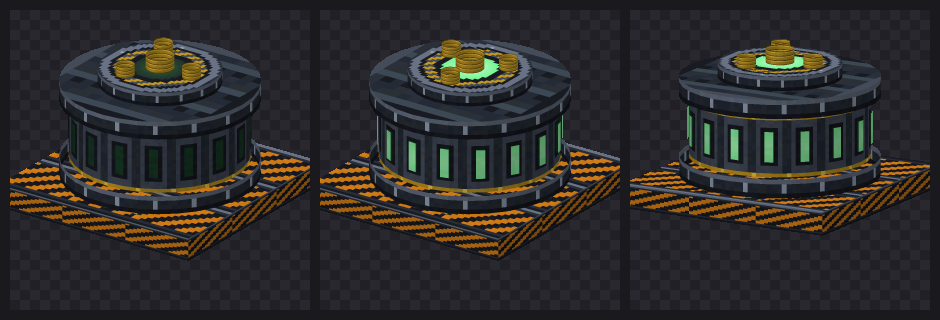
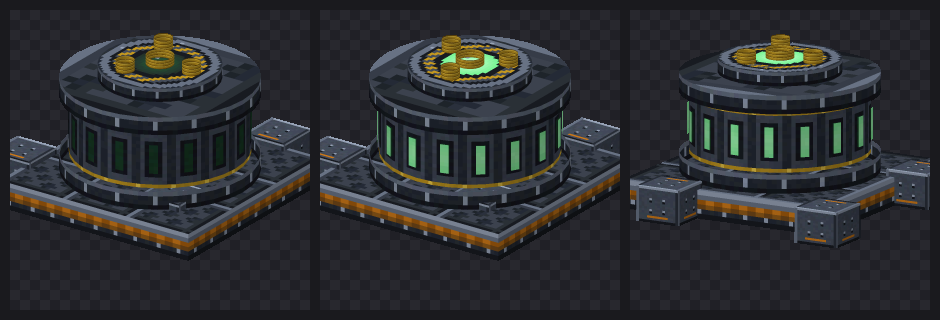
Rebuild the centrifuge's platform
The base was a flat slab tiled edge to edge with hazard stripes, which at
three blocks across read as noise rather than as a machine footing.

It is now a machined platform: a tread-plate deck over a dark steel skirt
carrying a single amber warning band and rivets, with bolted anchor blocks
at the four corners giving the base an actual silhouette. The tread pattern
is deliberately low contrast for the same reason the stripes were dropped.

The skirt is six block-pixels tall, so its faces sample rows 5..11 of the
texture rather than squashing all sixteen into six. Adds boxSides and
boxTop helpers so the deck and skirt can take different textures, since
the platform is drawn per block to keep texel density right.

Verified assets resolve, buffer discipline holds, and the machine still
forms, powers, refines and breaks as one on a dedicated server.

Claude-Session: https://claude.ai/code/session_01Ce4aKAQaA5yAKNMrb4K7Ch

Changed region(s): [[0.0, 0.0938, 1.0, 0.8125], [0.7096, 0.0938, 0.9564, 0.4062]]

diff --git a/uranium-mod/src/main/java/net/pero/uraniummod/client/render/CentrifugeBlockEntityRenderer.java b/uranium-mod/src/main/java/net/pero/uraniummod/client/render/CentrifugeBlockEntityRenderer.java
@@ -42,6 +42,8 @@ public class CentrifugeBlockEntityRenderer implements BlockEntityRenderer<Centri
 			Identifier.of(UraniumMod.MOD_ID, "textures/block/centrifuge_deck.png");
 	private static final Identifier BASE =
 			Identifier.of(UraniumMod.MOD_ID, "textures/block/centrifuge_base.png");
+	private static final Identifier FOOT =
+			Identifier.of(UraniumMod.MOD_ID, "textures/block/centrifuge_foot.png");
 
 	private static final float PX = 1.0f / 16.0f;
 	private static final int SIDES = 32;
@@ -58,9 +60,13 @@ public class CentrifugeBlockEntityRenderer implements BlockEntityRenderer<Centri
 	private static final float FOOT_MIN = -16.0f, FOOT_MAX = 32.0f;
 	private static final float COLLAR_R = 21.0f, BODY_R = 19.0f, GLOW_R = 19.4f;
 	private static final float HOUSING_R = 13.0f, SHAFT_R = 3.0f;
-	private static final float Y_PLINTH = 5.0f;
-	private static final float Y_BODY0 = 9.0f, Y_BODY1 = 22.0f;
-	private static final float Y_UPPER = 26.0f, Y_HOUSING = 29.0f, Y_SHAFT = 32.0f;
+	private static final float Y_PLINTH = 6.0f;      // top of the platform deck
+	private static final float Y_FOOT = 7.5f;        // corner anchor blocks
+	private static final float Y_BODY0 = 10.0f, Y_BODY1 = 23.0f;
+	private static final float Y_UPPER = 27.0f, Y_HOUSING = 30.0f, Y_SHAFT = 32.0f;
+
+	/** The skirt texture's design lives in rows 5..11; see tools/gen_textures.py. */
+	private static final float SKIRT_V0 = 5.0f / 16.0f, SKIRT_V1 = 11.0f / 16.0f;
 
 	public CentrifugeBlockEntityRenderer(BlockEntityRendererFactory.Context ctx) {
 	}
@@ -82,17 +88,45 @@ public class CentrifugeBlockEntityRenderer implements BlockEntityRenderer<Centri
 		// ends it. Holding several buffers at once and interleaving writes throws
 		// "Not building!" on the first write to a buffer that was already flushed.
 
-		{   // Plinth over the full 3x3 footprint, drawn as one box per block rather
-			// than a single 48px-wide one: stretching a 16px texture across the
-			// whole span is exactly the smearing that spoiled the old drum.
-			VertexConsumer base = vertexConsumers.getBuffer(
+		{   // Platform. Drawn as one box per block rather than a single 48px-wide
+			// one: stretching a 16px texture over the whole span is the same
+			// smearing that spoiled the earlier drum. The sides sample the
+			// skirt band, the top gets tread plate.
+			VertexConsumer skirt = vertexConsumers.getBuffer(
 					RenderLayer.getEntityCutoutNoCull(BASE));
 			for (int dx = -1; dx <= 1; dx++) {
 				for (int dz = -1; dz <= 1; dz++) {
 					float x0 = (dx * 16.0f - CX) * PX;
 					float z0 = (dz * 16.0f - CZ) * PX;
-					box(matrices, base, x0, 0.0f, z0,
+					boxSides(matrices, skirt, x0, 0.0f, z0,
 							x0 + 16.0f * PX, Y_PLINTH * PX, z0 + 16.0f * PX,
+							SKIRT_V0, SKIRT_V1, light, overlay);
+				}
+			}
+		}
+
+		{   // tread-plate deck on top of the platform
+			VertexConsumer deck = vertexConsumers.getBuffer(
+					RenderLayer.getEntityCutoutNoCull(DECK));
+			for (int dx = -1; dx <= 1; dx++) {
+				for (int dz = -1; dz <= 1; dz++) {
+					float x0 = (dx * 16.0f - CX) * PX;
+					float z0 = (dz * 16.0f - CZ) * PX;
+					boxTop(matrices, deck, x0, Y_PLINTH * PX, z0,
+							x0 + 16.0f * PX, z0 + 16.0f * PX, light, overlay);
+				}
+			}
+		}
+
+		{   // anchor blocks at the four corners, so the base is not a bare slab
+			VertexConsumer foot = vertexConsumers.getBuffer(
+					RenderLayer.getEntityCutoutNoCull(FOOT));
+			for (int sx = -1; sx <= 1; sx += 2) {
+				for (int sz = -1; sz <= 1; sz += 2) {
+					float cx = sx * 19.0f - CX;
+					float cz = sz * 19.0f - CZ;
+					box(matrices, foot, (cx - 5.0f) * PX, 0.0f, (cz - 5.0f) * PX,
+							(cx + 5.0f) * PX, Y_FOOT * PX, (cz + 5.0f) * PX,
 							light, overlay, 0xFFFFFFFF);
 				}
 			}
@@ -175,7 +209,40 @@ public class CentrifugeBlockEntityRenderer implements BlockEntityRenderer<Centri
 		matrices.pop();
 	}
 
-	/** Axis-aligned box, used for the plinth. */
+	/** The four upright faces of a box, sampling a horizontal band of the texture. */
+	private static void boxSides(MatrixStack matrices, VertexConsumer vc,
+	                             float x0, float y0, float z0, float x1, float y1, float z1,
+	                             float v0, float v1, int light, int overlay) {
+		MatrixStack.Entry e = matrices.peek();
+		float[][] faces = {
+				{x1, y1, z0, x0, y1, z0, x0, y0, z0, x1, y0, z0, 0, 0, -1},
+				{x0, y1, z1, x1, y1, z1, x1, y0, z1, x0, y0, z1, 0, 0, 1},
+				{x1, y1, z1, x1, y1, z0, x1, y0, z0, x1, y0, z1, 1, 0, 0},
+				{x0, y1, z0, x0, y1, z1, x0, y0, z1, x0, y0, z0, -1, 0, 0},
+		};
+		float[][] uv = {{0, v0}, {1, v0}, {1, v1}, {0, v1}};
+		for (float[] f : faces) {
+			for (int i = 0; i < 4; i++) {
+				put(vc, e, f[i * 3], f[i * 3 + 1], f[i * 3 + 2], uv[i][0], uv[i][1],
+						light, overlay, f[12], f[13], f[14], 0xFFFFFFFF);
+			}
+		}
+	}
+
+	/** Just the top face of a box. */
+	private static void boxTop(MatrixStack matrices, VertexConsumer vc,
+	                           float x0, float y, float z0, float x1, float z1,
+	                           int light, int overlay) {
+		MatrixStack.Entry e = matrices.peek();
+		float[][] c = {{x0, y, z0}, {x1, y, z0}, {x1, y, z1}, {x0, y, z1}};
+		float[][] uv = {{0, 0}, {1, 0}, {1, 1}, {0, 1}};
+		for (int i = 0; i < 4; i++) {
+			put(vc, e, c[i][0], c[i][1], c[i][2], uv[i][0], uv[i][1],
+					light, overlay, 0.0f, 1.0f, 0.0f, 0xFFFFFFFF);
+		}
+	}
+
+	/** Axis-aligned box, used for the corner feet. */
 	private static void box(MatrixStack matrices, VertexConsumer vc,
 	                        float x0, float y0, float z0, float x1, float y1, float z1,
 	                        int light, int overlay, int tint) {

diff --git a/uranium-mod/tools/gen_textures.py b/uranium-mod/tools/gen_textures.py
@@ -532,32 +532,64 @@ def make_shaft(path, seed=74):
         px.append(row)
     write_png(path, px)
 
+# The skirt is 6 block-pixels tall, so the renderer samples rows 5..11 of this
+# texture. Those rows carry the whole design; the rest is never seen.
+SKIRT_V0, SKIRT_V1 = 5, 11
+
 def make_base(path, seed=45):
-    """Plinth skirt: amber/black hazard stripes."""
+    """Platform skirt: dark steel with a single amber warning band and rivets,
+    rather than an edge-to-edge hazard pattern, which read as noise at size."""
     r = Rng(seed)
-    px = [[q(sh(AMB_M if ((x + y) // 3) % 2 == 0 else STEEL_O,
-                int((r.f() - 0.5) * 12))) for x in range(N)] for y in range(N)]
+    px = [[q(sh(STEEL_D, int((r.f() - 0.5) * 8))) for _ in range(N)] for _ in range(N)]
+    for x in range(N):
+        px[SKIRT_V0][x] = STEEL_H                       # lit top lip
+        px[SKIRT_V0 + 1][x] = STEEL_L
+        px[SKIRT_V1 - 1][x] = STEEL_O                   # shadow under the lip
+    for x in range(N):                                  # amber warning band
+        band = AMB_M if (x // 2) % 2 == 0 else mix(AMB_M, AMB_D, 0.55)
+        px[SKIRT_V0 + 2][x] = q(band)
+        px[SKIRT_V0 + 3][x] = q(mix(band, STEEL_O, 0.35))
+    for x in (2, 8, 13):                                # rivets on the lower rail
+        px[SKIRT_V1 - 2][x] = STEEL_H
+    write_png(path, px)
+
+def make_foot(path, seed=46):
+    """Corner anchor block: heavier steel with a bolt on each face."""
+    r = Rng(seed)
+    px = [[q(sh(STEEL_M, int((r.f() - 0.5) * 10))) for _ in range(N)] for _ in range(N)]
     for i in range(N):
-        px[0][i] = STEEL_L
-        px[1][i] = STEEL_D
+        px[0][i] = STEEL_H
+        px[i][0] = STEEL_L
         px[N - 1][i] = STEEL_O
-        px[N - 2][i] = STEEL_D
+        px[i][N - 1] = STEEL_D
+    for (bx, by) in ((5, 5), (10, 5), (5, 10), (10, 10)):
+        px[by][bx] = STEEL_H
+        px[by + 1][bx] = STEEL_O
+    for x in range(4, 12):                              # amber accent
+        px[13][x] = q(AMB_M)
     write_png(path, px)
 
 def make_deck(path, seed=64):
-    """Plinth top: tread plate the tower stands on."""
+    """Platform top: diamond tread plate with a raised border."""
     r = Rng(seed)
-    px = [[q(sh(STEEL_D, int((r.f() - 0.5) * 10))) for _ in range(N)] for _ in range(N)]
-    for y in range(2, N, 4):
-        for x in range(N):
-            px[y][x] = q(sh(STEEL_M, -6))
-            if x % 2 == 0 and y + 1 < N:
-                px[y + 1][x] = STEEL_O
-    for i in range(N):
-        px[0][i] = STEEL_M
-        px[i][0] = STEEL_M
+    px = [[q(sh(STEEL_D, int((r.f() - 0.5) * 8))) for _ in range(N)] for _ in range(N)]
+    for y in range(2, N - 2):                           # diamond tread pattern
+        for x in range(2, N - 2):
+            # kept low-contrast: at three blocks across, a loud tread pattern
+            # turns into visual noise
+            if (x + y) % 6 in (0, 1) or (x - y) % 6 in (0, 1):
+                px[y][x] = q(mix(STEEL_D, STEEL_M, 0.7))
+            elif (x + y) % 6 == 2 or (x - y) % 6 == 2:
+                px[y][x] = q(mix(STEEL_D, STEEL_O, 0.5))
+    for i in range(N):                                  # raised border
+        px[0][i] = STEEL_L
+        px[i][0] = STEEL_L
+        px[1][i] = q(mix(STEEL_M, STEEL_D, 0.5))
+        px[i][1] = q(mix(STEEL_M, STEEL_D, 0.5))
         px[N - 1][i] = STEEL_O
         px[i][N - 1] = STEEL_O
+        px[N - 2][i] = q(STEEL_D)
+        px[i][N - 2] = q(STEEL_D)
     write_png(path, px)
 
 def make_bottom(path, seed=42):
@@ -729,6 +761,7 @@ make_rotor_top(f"{B}/centrifuge_rotor_top.png")
 make_rotor_top_glow(f"{B}/centrifuge_rotor_top_glow.png")
 make_shaft(f"{B}/centrifuge_shaft.png")
 make_base(f"{B}/centrifuge_base.png")
+make_foot(f"{B}/centrifuge_foot.png")
 make_deck(f"{B}/centrifuge_deck.png")
 make_bottom(f"{B}/centrifuge_bottom.png")
 

diff --git a/uranium-mod/tools/preview_centrifuge.py b/uranium-mod/tools/preview_centrifuge.py
@@ -16,9 +16,10 @@ CX = CZ = 8.0
 FOOT_MIN, FOOT_MAX = -16.0, 32.0
 COLLAR_R, BODY_R, GLOW_R = 21.0, 19.0, 19.4
 HOUSING_R, SHAFT_R = 13.0, 3.0
-Y_PLINTH = 5.0
-Y_BODY0, Y_BODY1 = 9.0, 22.0
-Y_UPPER, Y_HOUSING, Y_SHAFT = 26.0, 29.0, 32.0
+Y_PLINTH = 6.0
+Y_FOOT = 7.5
+Y_BODY0, Y_BODY1 = 10.0, 23.0
+Y_UPPER, Y_HOUSING, Y_SHAFT = 27.0, 30.0, 32.0
 V_LOWER = (0.0, 4.0 / 24.0 * 16)
 V_BODY = (4.0 / 24.0 * 16, 20.0 / 24.0 * 16)
 V_UPPER = (20.0 / 24.0 * 16, 16.0)
@@ -30,6 +31,8 @@ ROTOR_TOP = NS + "centrifuge_rotor_top"
 ROTOR_TOP_GLOW = NS + "centrifuge_rotor_top_glow"
 SHAFT = NS + "centrifuge_shaft"
 BASE = NS + "centrifuge_base"
+FOOT = NS + "centrifuge_foot"
+SKIRT_V = (5.0, 11.0)
 DECK = NS + "centrifuge_deck"
 
 def side_shade(nx):
@@ -75,12 +78,31 @@ def box(x0, y0, z0, x1, y1, z1, tex):
     uv = [(0,0),(16,0),(16,16),(0,16)]
     return [(c, uv, tex, sh) for c, sh in faces]
 
+def box_sides(x0, y0, z0, x1, y1, z1, tex, v0, v1):
+    faces = [
+        ([(x1,y1,z0),(x0,y1,z0),(x0,y0,z0),(x1,y0,z0)], 0.8),
+        ([(x0,y1,z1),(x1,y1,z1),(x1,y0,z1),(x0,y0,z1)], 0.8),
+        ([(x1,y1,z1),(x1,y1,z0),(x1,y0,z0),(x1,y0,z1)], 0.6),
+        ([(x0,y1,z0),(x0,y1,z1),(x0,y0,z1),(x0,y0,z0)], 0.6),
+    ]
+    uv = [(0,v0),(16,v0),(16,v1),(0,v1)]
+    return [(c, uv, tex, sh) for c, sh in faces]
+
+def box_top(x0, y, z0, x1, z1, tex):
+    return [([(x0,y,z0),(x1,y,z0),(x1,y,z1),(x0,y,z1)],
+             [(0,0),(16,0),(16,16),(0,16)], tex, 1.0)]
+
 def build(heat, spin):
     q = []
     for dx in (-1, 0, 1):
         for dz in (-1, 0, 1):
             x0, z0 = dx * 16.0, dz * 16.0
-            q += box(x0, 0.0, z0, x0 + 16.0, Y_PLINTH, z0 + 16.0, BASE)
+            q += box_sides(x0, 0.0, z0, x0 + 16.0, Y_PLINTH, z0 + 16.0, BASE, *SKIRT_V)
+            q += box_top(x0, Y_PLINTH, z0, x0 + 16.0, z0 + 16.0, DECK)
+    for sx in (-1, 1):
+        for sz in (-1, 1):
+            fx, fz = sx * 19.0, sz * 19.0
+            q += box(fx - 5.0, 0.0, fz - 5.0, fx + 5.0, Y_FOOT, fz + 5.0, FOOT)
     q += cylinder(CX, CZ, COLLAR_R, Y_PLINTH, Y_BODY0, *V_LOWER, TOWER)
     q += cylinder(CX, CZ, COLLAR_R, Y_BODY1, Y_UPPER, *V_UPPER, TOWER)
     q += disc(CX, CZ, COLLAR_R, Y_UPPER, DECK)

diff --git a/uranium-mod/README.md b/uranium-mod/README.md
@@ -111,6 +111,11 @@ dark and the port is dead. Everything lit is an **emissive** pass drawn at full
 lightmap brightness, so it glows in an unlit cave rather than merely being green,
 and its brightness follows the machine's heat.
 
+It stands on a machined platform rather than a bare slab: a tread-plate deck
+over a dark steel skirt carrying one amber warning band, with bolted anchor
+blocks at the four corners. The skirt samples a six-pixel band of its texture
+so the design lands at the right density on a face only six pixels tall.
+
 Only the controller carries the renderer; the other seventeen blocks are
 invisible filler that forward interaction, hoppers and breaking to it, and store
 their offset in the block state so they cost no tick or storage overhead. While
